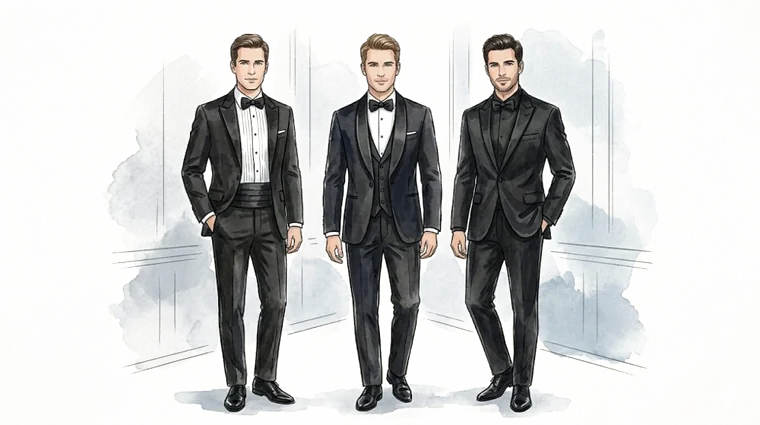
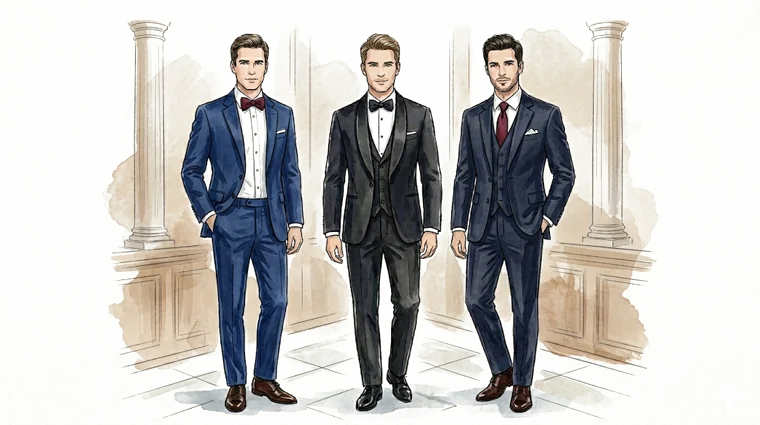
Put Ilaria first, relax dress code, swap suit illustration
- Flip the couple's name order to "Ilaria & Maxime" everywhere it's shown
  (gate, hero, footer, title/meta) and in the monogram (crest, seal, favicon).
  Bank account holder "Maxime Atoui" and the email are left unchanged.
- Change the dress code from black tie to an elegant-but-relaxed cocktail wording.
- Replace the men's dress illustration with the new elegant-suits image, same
  transparent (white-keyed) WebP treatment.

Claude-Session: https://claude.ai/code/session_01CBfPBZsLFX6dsPR9cvZeRX

diff --git a/site/js/i18n.js b/site/js/i18n.js
@@ -5,8 +5,8 @@
 
 const I18N = {
   it:{
-    "meta.title":"Maxime & Ilaria — 23 luglio 2027, Firenze",
-    "meta.desc":"Maxime & Ilaria si sposano il 23 luglio 2027 a Villa Corsini a Mezzomonte, Firenze. Programma, viaggio e RSVP.",
+    "meta.title":"Ilaria & Maxime — 23 luglio 2027, Firenze",
+    "meta.desc":"Ilaria & Maxime si sposano il 23 luglio 2027 a Villa Corsini a Mezzomonte, Firenze. Programma, viaggio e RSVP.",
     "nav.story":"Storia","nav.day":"Il giorno","nav.venue":"La villa","nav.travel":"Soggiorno","nav.florence":"Firenze","nav.gifts":"Regali","nav.rsvp":"RSVP",
 
     "gate.title":"Un momento privato","gate.hint":"Inserite la password che trovate nel vostro invito.","gate.ph":"Password","gate.btn":"Entra","gate.err":"Password non corretta. Riprovate.",
@@ -22,7 +22,7 @@ const I18N = {
 
     "day.over":"Il giorno","day.title":"Il programma","day.note":"Gli orari saranno confermati.",
     "day.t1":"Arrivo & benvenuto","day.t2":"Cerimonia","day.t3":"Aperitivo nei giardini","day.t4":"Cena nella galleria affrescata","day.t5":"Si balla","day.t6":"Saluti","day.t6.time":"tardi",
-    "day.dress.label":"Dress code","day.dress.value":"Black tie — abito lungo e smoking.","day.dress.women":"Esempi di abiti da sera per le ospiti","day.dress.men":"Esempi di smoking per gli ospiti","day.map.cap":"I giardini e la disposizione dei tavoli.",
+    "day.dress.label":"Dress code","day.dress.value":"Cocktail elegante — lo smoking non è obbligatorio, ma vestitevi eleganti.","day.dress.women":"Esempi di abiti da sera per le ospiti","day.dress.men":"Esempi di completi eleganti per gli ospiti","day.map.cap":"I giardini e la disposizione dei tavoli.",
 
     "venue.over":"Il luogo","venue.title":"Villa Corsini a Mezzomonte",
     "venue.body":"Una villa medicea del Quattrocento sulle colline a sud di Firenze, acquistata da Lorenzo il Magnifico nel 1480 e affrescata negli anni 1630 per il principe Giovan Carlo de' Medici. Dal 1644 è dei Corsini: giardini all'italiana, cipressi e oliveti affacciati sulle colline del Chianti.",
@@ -51,14 +51,14 @@ const I18N = {
     "rsvp.f.name":"Nome e cognome","rsvp.f.email":"Email","rsvp.f.phone":"Telefono","rsvp.f.address":"Indirizzo postale","rsvp.f.attending":"Sarete dei nostri?","rsvp.f.yes":"Sì, con gioia","rsvp.f.no":"Purtroppo no","rsvp.f.party":"Venite da soli o accompagnati?","rsvp.f.alone":"Da solo/a","rsvp.f.plus":"Con un accompagnatore *","rsvp.f.plusnote":"* Solo gli invitati il cui invito indica un accompagnatore possono portarne uno. Ci dispiace tanto — lo spazio è limitato.","rsvp.f.plusname":"Nome dell'accompagnatore","rsvp.f.diet":"Allergie o intolleranze","rsvp.f.shuttle":"Avete bisogno della navetta da/per Firenze?","rsvp.f.staying":"Dove alloggerete? (per organizzare la navetta)","rsvp.f.y":"Sì","rsvp.f.n":"No","rsvp.f.message":"Un messaggio per noi","rsvp.f.submit":"Invia la risposta","rsvp.f.close":"Chiudi",
     "rsvp.fallback":"Problemi con il modulo? Scrivete a <a class='mail' data-addr></a>.",
 
-    "foot.line":"Maxime & Ilaria · 23 luglio 2027 · Villa Corsini a Mezzomonte","foot.contact":"Domande? <a class='mail' data-addr></a>","foot.close":"A presto",
+    "foot.line":"Ilaria & Maxime · 23 luglio 2027 · Villa Corsini a Mezzomonte","foot.contact":"Domande? <a class='mail' data-addr></a>","foot.close":"A presto",
 
     "alt.hero":"Acquerello di Villa Corsini a Mezzomonte","alt.estate":"Veduta della tenuta e dei giardini","alt.couple":"Gli sposi nel giardino","alt.plan":"Pianta dei giardini e dei tavoli","alt.venue":"Villa Corsini a Mezzomonte","alt.duomo":"Il Duomo di Firenze","alt.ponte":"Il Ponte Vecchio a Firenze"
   },
 
   fr:{
-    "meta.title":"Maxime & Ilaria — 23 juillet 2027, Florence",
-    "meta.desc":"Maxime & Ilaria se marient le 23 juillet 2027 à la Villa Corsini a Mezzomonte, Florence. Programme, voyage et RSVP.",
+    "meta.title":"Ilaria & Maxime — 23 juillet 2027, Florence",
+    "meta.desc":"Ilaria & Maxime se marient le 23 juillet 2027 à la Villa Corsini a Mezzomonte, Florence. Programme, voyage et RSVP.",
     "nav.story":"Histoire","nav.day":"Le jour","nav.venue":"Le lieu","nav.travel":"Séjour","nav.florence":"Florence","nav.gifts":"Cadeaux","nav.rsvp":"RSVP",
 
     "gate.title":"Un moment privé","gate.hint":"Saisissez le mot de passe indiqué sur votre invitation.","gate.ph":"Mot de passe","gate.btn":"Entrer","gate.err":"Mot de passe incorrect. Réessayez.",
@@ -74,7 +74,7 @@ const I18N = {
 
     "day.over":"Le jour J","day.title":"Le déroulé","day.note":"Les horaires seront confirmés.",
     "day.t1":"Arrivée & accueil","day.t2":"Cérémonie","day.t3":"Cocktail dans les jardins","day.t4":"Dîner dans la galerie à fresques","day.t5":"Soirée dansante","day.t6":"Fin de soirée","day.t6.time":"tard",
-    "day.dress.label":"Tenue","day.dress.value":"Black tie — robe longue et smoking.","day.dress.women":"Exemples de tenues de soirée pour les invitées","day.dress.men":"Exemples de smoking pour les invités","day.map.cap":"Les jardins et le plan de table.",
+    "day.dress.label":"Tenue","day.dress.value":"Cocktail élégant — le smoking n'est pas obligatoire, mais sur votre trente-et-un.","day.dress.women":"Exemples de tenues de soirée pour les invitées","day.dress.men":"Exemples de costumes élégants pour les invités","day.map.cap":"Les jardins et le plan de table.",
 
     "venue.over":"Le lieu","venue.title":"Villa Corsini a Mezzomonte",
     "venue.body":"Une villa médicéenne du XVᵉ siècle sur les collines au sud de Florence, achetée par Laurent le Magnifique en 1480 et ornée de fresques dans les années 1630 pour le prince Giovan Carlo de' Medici. Aux Corsini depuis 1644 : jardins à l'italienne, cyprès et oliveraies dominant les collines du Chianti.",
@@ -103,14 +103,14 @@ const I18N = {
     "rsvp.f.name":"Nom et prénom","rsvp.f.email":"E-mail","rsvp.f.phone":"Téléphone","rsvp.f.address":"Adresse postale","rsvp.f.attending":"Serez-vous des nôtres ?","rsvp.f.yes":"Oui, avec joie","rsvp.f.no":"Malheureusement non","rsvp.f.party":"Venez-vous seul·e ou accompagné·e ?","rsvp.f.alone":"Seul·e","rsvp.f.plus":"Avec un·e invité·e *","rsvp.f.plusnote":"* Seuls les invités dont l'invitation mentionne un·e accompagnant·e peuvent en amener un·e. Nous en sommes vraiment désolés — la place est limitée.","rsvp.f.plusname":"Nom de votre invité·e","rsvp.f.diet":"Allergies ou intolérances","rsvp.f.shuttle":"Avez-vous besoin de la navette depuis/vers Florence ?","rsvp.f.staying":"Où logerez-vous ? (pour organiser la navette)","rsvp.f.y":"Oui","rsvp.f.n":"Non","rsvp.f.message":"Un mot pour nous","rsvp.f.submit":"Envoyer la réponse","rsvp.f.close":"Fermer",
     "rsvp.fallback":"Un souci avec le formulaire ? Écrivez à <a class='mail' data-addr></a>.",
 
-    "foot.line":"Maxime & Ilaria · 23 juillet 2027 · Villa Corsini a Mezzomonte","foot.contact":"Questions ? <a class='mail' data-addr></a>","foot.close":"À très bientôt",
+    "foot.line":"Ilaria & Maxime · 23 juillet 2027 · Villa Corsini a Mezzomonte","foot.contact":"Questions ? <a class='mail' data-addr></a>","foot.close":"À très bientôt",
 
     "alt.hero":"Aquarelle de la Villa Corsini a Mezzomonte","alt.estate":"Vue du domaine et des jardins","alt.couple":"Les mariés dans le jardin","alt.plan":"Plan des jardins et des tables","alt.venue":"Villa Corsini a Mezzomonte","alt.duomo":"Le Duomo de Florence","alt.ponte":"Le Ponte Vecchio à Florence"
   },
 
   en:{
-    "meta.title":"Maxime & Ilaria — 23 July 2027, Florence",
-    "meta.desc":"Maxime & Ilaria are getting married on 23 July 2027 at Villa Corsini a Mezzomonte, Florence. Programme, travel and RSVP.",
+    "meta.title":"Ilaria & Maxime — 23 July 2027, Florence",
+    "meta.desc":"Ilaria & Maxime are getting married on 23 July 2027 at Villa Corsini a Mezzomonte, Florence. Programme, travel and RSVP.",
     "nav.story":"Story","nav.day":"The day","nav.venue":"Venue","nav.travel":"Travel","nav.florence":"Florence","nav.gifts":"Gifts","nav.rsvp":"RSVP",
 
     "gate.title":"A private moment","gate.hint":"Enter the password from your invitation to come in.","gate.ph":"Password","gate.btn":"Enter","gate.err":"Incorrect password. Please try again.",
@@ -126,7 +126,7 @@ const I18N = {
 
     "day.over":"The day","day.title":"The programme","day.note":"Times to be confirmed.",
     "day.t1":"Arrival & welcome","day.t2":"Ceremony","day.t3":"Aperitivo in the gardens","day.t4":"Dinner in the frescoed gallery","day.t5":"Dancing","day.t6":"Farewell","day.t6.time":"late",
-    "day.dress.label":"Dress code","day.dress.value":"Black tie — floor-length gowns and black tie.","day.dress.women":"Evening-wear inspiration for guests","day.dress.men":"Black-tie inspiration for guests","day.map.cap":"The gardens and the seating plan.",
+    "day.dress.label":"Dress code","day.dress.value":"Elegant cocktail — black tie not required, but dress to impress.","day.dress.women":"Evening-wear inspiration for guests","day.dress.men":"Elegant suit inspiration for guests","day.map.cap":"The gardens and the seating plan.",
 
     "venue.over":"The venue","venue.title":"Villa Corsini a Mezzomonte",
     "venue.body":"A fifteenth-century Medici villa in the hills south of Florence, bought by Lorenzo the Magnificent in 1480 and frescoed in the 1630s for Prince Giovan Carlo de' Medici. Held by the Corsini family since 1644 — formal box gardens, cypress and olive groves looking over the Chianti hills.",
@@ -155,7 +155,7 @@ const I18N = {
     "rsvp.f.name":"Full name","rsvp.f.email":"Email","rsvp.f.phone":"Phone","rsvp.f.address":"Postal address","rsvp.f.attending":"Will you join us?","rsvp.f.yes":"Yes, with joy","rsvp.f.no":"Sadly, no","rsvp.f.party":"Are you coming alone or with someone?","rsvp.f.alone":"On my own","rsvp.f.plus":"With a plus-one *","rsvp.f.plusnote":"* Only guests whose invitation mentions a plus-one can bring someone. We're truly sorry — space is limited.","rsvp.f.plusname":"Your plus-one's name","rsvp.f.diet":"Allergies or dietary needs","rsvp.f.shuttle":"Do you need the shuttle to/from Florence?","rsvp.f.staying":"Where will you be staying? (to plan the shuttle)","rsvp.f.y":"Yes","rsvp.f.n":"No","rsvp.f.message":"A message for us","rsvp.f.submit":"Send reply","rsvp.f.close":"Close",
     "rsvp.fallback":"Trouble with the form? Email us at <a class='mail' data-addr></a>.",
 
-    "foot.line":"Maxime & Ilaria · 23 July 2027 · Villa Corsini a Mezzomonte","foot.contact":"Questions? <a class='mail' data-addr></a>","foot.close":"See you soon",
+    "foot.line":"Ilaria & Maxime · 23 July 2027 · Villa Corsini a Mezzomonte","foot.contact":"Questions? <a class='mail' data-addr></a>","foot.close":"See you soon",
 
     "alt.hero":"Watercolour of Villa Corsini a Mezzomonte","alt.estate":"View of the estate and gardens","alt.couple":"The couple in the garden","alt.plan":"Plan of the gardens and tables","alt.venue":"Villa Corsini a Mezzomonte","alt.duomo":"The Florence Duomo","alt.ponte":"The Ponte Vecchio in Florence"
   }

diff --git a/site/index.html b/site/index.html
@@ -3,12 +3,12 @@
 <head>
   <meta charset="utf-8">
   <meta name="viewport" content="width=device-width, initial-scale=1">
-  <title>Maxime & Ilaria — 23 July 2027, Florence</title>
-  <meta name="description" content="Maxime & Ilaria are getting married on 23 July 2027 at Villa Corsini a Mezzomonte, Florence.">
+  <title>Ilaria & Maxime — 23 July 2027, Florence</title>
+  <meta name="description" content="Ilaria & Maxime are getting married on 23 July 2027 at Villa Corsini a Mezzomonte, Florence.">
 
   <!-- Open Graph / social -->
   <meta property="og:type" content="website">
-  <meta property="og:title" content="Maxime & Ilaria — 23 July 2027, Florence">
+  <meta property="og:title" content="Ilaria & Maxime — 23 July 2027, Florence">
   <meta property="og:description" content="Join us at Villa Corsini a Mezzomonte. Programme, travel and RSVP.">
   <meta property="og:image" content="assets/img/estate.jpg">
   <meta name="twitter:card" content="summary_large_image">
@@ -30,7 +30,7 @@
   <div id="gate" role="dialog" aria-modal="true" aria-labelledby="gate-title">
     <div class="gate__card">
       <svg class="gate__crest" aria-hidden="true"><use href="assets/marks.svg#crest"></use></svg>
-      <p class="gate__names"><span>Maxime</span><span class="amp">&amp;</span><span>Ilaria</span></p>
+      <p class="gate__names"><span>Ilaria</span><span class="amp">&amp;</span><span>Maxime</span></p>
       <h1 class="gate__title" id="gate-title" data-i18n="gate.title">Un momento privato</h1>
       <p class="gate__hint" data-i18n="gate.hint">Inserite la password che trovate nel vostro invito.</p>
       <form class="gate__form" autocomplete="off">
@@ -44,7 +44,7 @@
 
   <!-- ===================== TOP BAR ===================== -->
   <header class="topbar">
-    <a href="#home" class="brand" aria-label="Maxime & Ilaria">
+    <a href="#home" class="brand" aria-label="Ilaria & Maxime">
       <svg aria-hidden="true"><use href="assets/marks.svg#crest"></use></svg>
     </a>
 
@@ -90,7 +90,7 @@
     <div class="hero__scrim" aria-hidden="true"></div>
     <div class="hero__inner">
       <p class="hero__over" data-i18n="hero.over">VILLA CORSINI A MEZZOMONTE · FIRENZE</p>
-      <h1 class="names"><span class="n">Maxime</span><span class="amp">&amp;</span><span class="n">Ilaria</span></h1>
+      <h1 class="names"><span class="n">Ilaria</span><span class="amp">&amp;</span><span class="n">Maxime</span></h1>
       <p class="hero__tagline" data-i18n="hero.tagline">Ci sposiamo</p>
       <p class="hero__date" data-i18n="hero.date">Venerdì 23 luglio 2027</p>
     </div>
@@ -163,7 +163,7 @@
         </ul>
         <dl class="factbox">
           <dt data-i18n="day.dress.label">Dress code</dt>
-          <dd data-i18n="day.dress.value">Black tie — abito lungo e smoking.</dd>
+          <dd data-i18n="day.dress.value">Cocktail elegante — lo smoking non è obbligatorio, ma vestitevi eleganti.</dd>
         </dl>
         <div class="dresscode">
           <figure class="dresscode__fig"><img src="assets/img/dress-women-cut.webp" width="760" height="415" loading="lazy" alt="" data-i18n-attr="alt:day.dress.women"></figure>
@@ -381,8 +381,8 @@
   <!-- ===================== FOOTER ===================== -->
   <footer class="footer">
     <svg class="crest" aria-hidden="true"><use href="assets/marks.svg#crest"></use></svg>
-    <p class="names"><span class="n">Maxime</span><span class="amp">&amp;</span><span class="n">Ilaria</span></p>
-    <p class="footer__line" data-i18n="foot.line">Maxime &amp; Ilaria · 23 luglio 2027 · Villa Corsini a Mezzomonte</p>
+    <p class="names"><span class="n">Ilaria</span><span class="amp">&amp;</span><span class="n">Maxime</span></p>
+    <p class="footer__line" data-i18n="foot.line">Ilaria &amp; Maxime · 23 luglio 2027 · Villa Corsini a Mezzomonte</p>
     <p class="muted" data-i18n="foot.contact">Domande? [email]</p>
     <p class="footer__close" data-i18n="foot.close">A presto</p>
   </footer>